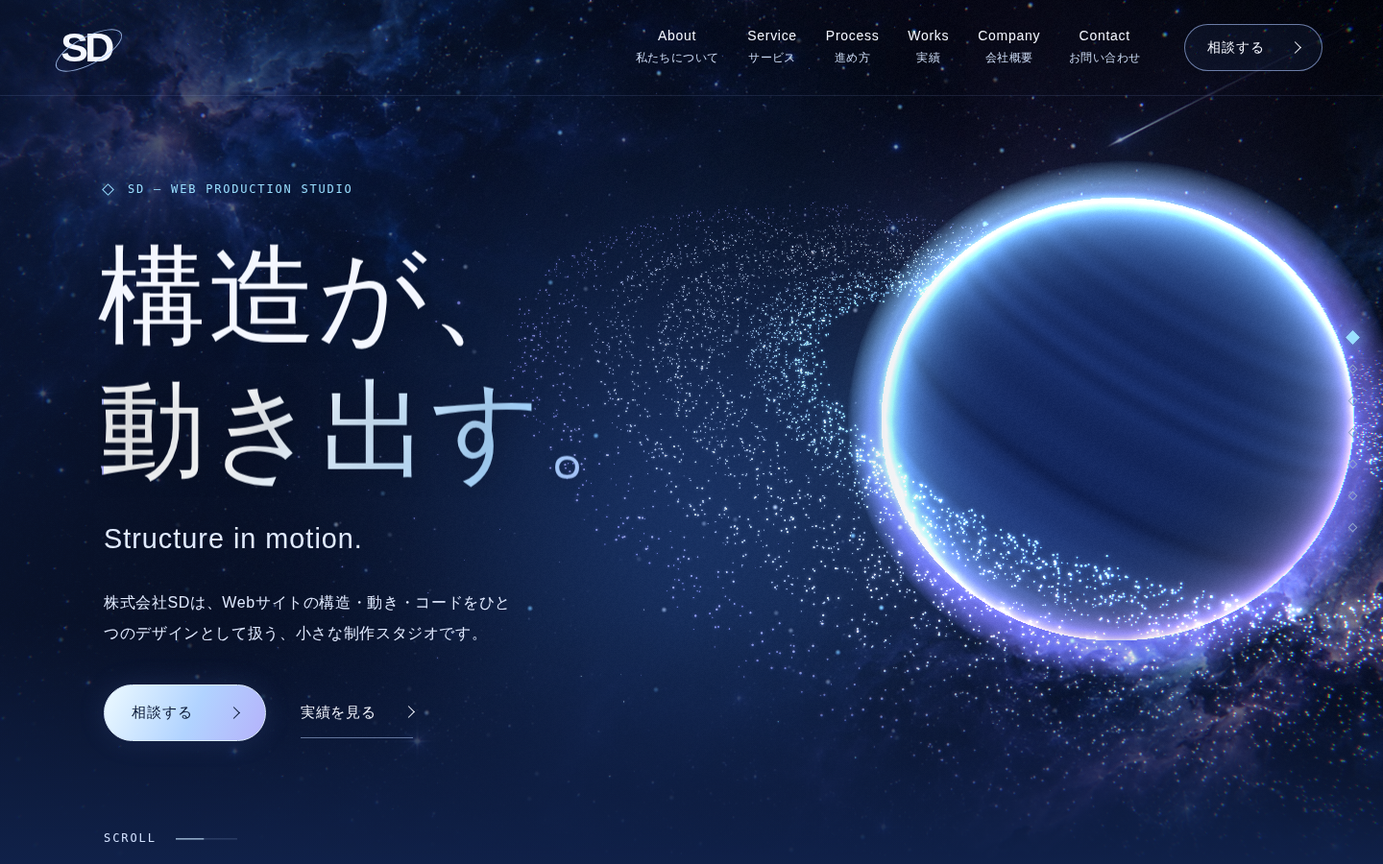
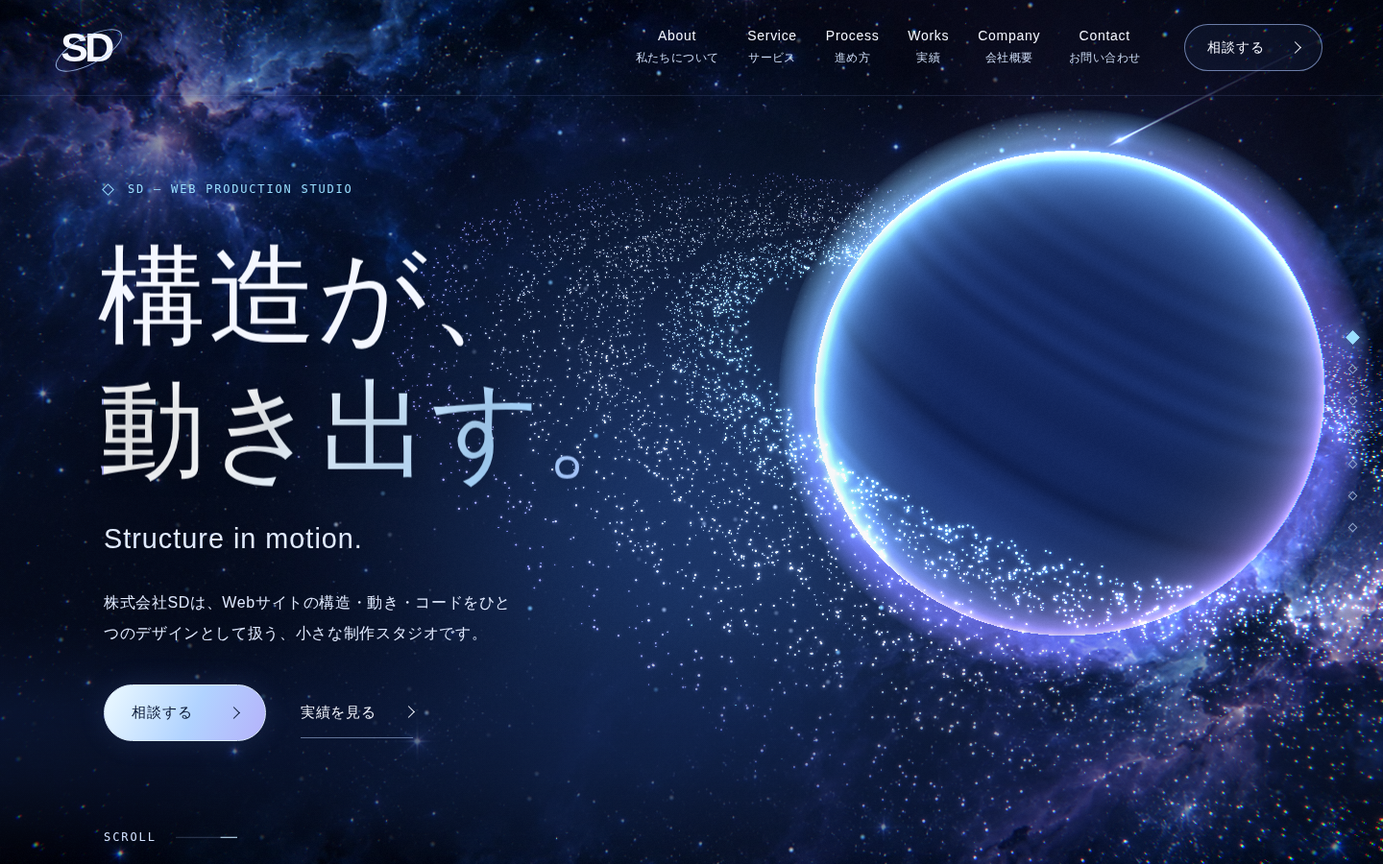
Address round-4 finish-gate findings on the cosmic-bright build
- Process grid moved clear of the lead text; mobile objects parked in
  the top margin and dimmed behind full-width text
- Hero: brighter ring (initial point size, colour ramp, fewer halo
  stars), planet rim/halo at a middle value, centre scrim removed;
  mobile hero gets a planet band above the headline
- About atom restored to visibility; section scrims fade at their
  edges (no seams); Works cast neutralised; CSS contact orbits removed
  in favour of the 3D ring; orbit light white with cyan glow
- Photo background brighter, subtler grain/vignette; thumbnails' gold
  nodes recoloured violet; review doc updated with the fix record

Claude-Session: https://claude.ai/code/session_01Fd1mfAUBwXNiZSSwWGqTG3

diff --git a/src/styles/cosmic.css b/src/styles/cosmic.css
@@ -6,7 +6,7 @@
 .menu-btn{display:none;background:transparent;width:46px;height:46px;padding:10px;position:relative}.menu-btn__bar{height:1px;background:#fff;position:absolute;left:9px;right:9px;top:18px;transition:transform .3s}.menu-btn__bar+span{top:27px}.menu-btn[aria-expanded=true] .menu-btn__bar{top:22px;transform:rotate(45deg)}.menu-btn[aria-expanded=true] .menu-btn__bar+span{transform:rotate(-45deg)}.menu{position:fixed;inset:0;background:#102149f7;backdrop-filter:blur(12px);z-index:60;padding:120px 7% 40px;overflow:auto;opacity:0;transition:opacity .35s}.menu.is-open{opacity:1}.menu__list a{display:flex;justify-content:space-between;align-items:center;padding:20px 0;border-bottom:1px solid var(--line)}.menu__jp{font-size:22px}.menu__en{font:14px var(--mono);color:var(--cyan)}.menu__foot{margin-top:36px;font-size:14px;color:var(--muted)}
 .indicator{position:fixed;right:22px;top:50%;transform:translateY(-50%);z-index:40;display:grid;gap:13px}.indicator button{background:none;width:20px;height:20px;position:relative;display:block;padding:0}.indicator button:after{content:'';position:absolute;left:7px;top:7px;width:5px;height:5px;border:1px solid #92a6cb;transform:rotate(45deg);transition:all .4s}.indicator [data-active=true] button:after{background:var(--cyan);border-color:var(--cyan);box-shadow:0 0 12px #7dd5ff;transform:rotate(45deg) scale(1.45)}.indicator span{position:absolute;right:31px;top:0;font:12px/20px var(--mono);color:var(--cyan);opacity:0;transition:opacity .2s}.indicator button:hover span{opacity:1}
 .container{width:min(1240px,85%);margin-inline:auto;position:relative;z-index:2}.section{position:relative;padding:150px 0;isolation:isolate;z-index:1}.section-num{position:absolute;right:7.5%;top:76px;font:500 180px/1 var(--latin);color:transparent;-webkit-text-stroke:1px #a4c3ff14;pointer-events:none}.label{display:flex;align-items:center;gap:16px;font:400 13px/1.6 var(--mono);letter-spacing:.15em;color:var(--cyan);margin-bottom:28px}.label:before{content:'';width:7px;height:7px;border:1px solid var(--cyan);transform:rotate(45deg);box-shadow:0 0 14px #88c6ff50}.h2{font-size:clamp(36px,3.45vw,52px);font-weight:500;line-height:1.55;letter-spacing:.04em}.line{display:block}.h3{font-size:20px;line-height:1.7;font-weight:500;letter-spacing:.025em}.lead{font-size:16px;line-height:2;color:var(--muted)}.note{font-size:13px;line-height:1.9;color:#c0cdeb}.rule{border:0;width:64px;height:1px;background:linear-gradient(90deg,var(--cyan),transparent);margin:36px 0 0}
-.section--hero{padding:0;min-height:850px;height:100svh;max-height:1180px;isolation:isolate;display:flex;align-items:center}.section--hero:before{content:'';position:absolute;inset:0;z-index:-1;background:linear-gradient(90deg,#12275640,transparent 70%),linear-gradient(0deg,var(--bg),transparent 28%)}.hero{padding:150px 0 90px;min-height:850px;display:flex;align-items:center}.hero__inner{max-width:630px;width:58%;position:relative;z-index:2}.hero__label{font-size:12px;letter-spacing:.15em;margin-bottom:30px}.hero__title{font-size:clamp(80px,7.8vw,120px);line-height:1.25;font-weight:700;letter-spacing:.025em;text-shadow:0 2px 32px #0004;margin-left:-.055em}.hero__title .line:last-child{background:linear-gradient(115deg,#fbfdff 25%,#a4d5ff 66%,#b3b2ff);-webkit-background-clip:text;background-clip:text;color:transparent}.hero__en{font:500 clamp(21px,2vw,29px)/1.4 var(--latin);letter-spacing:.035em;color:#e1ebff;margin-top:23px}.hero__lead{font-size:16px;line-height:2.05;color:#e0eaff;max-width:425px;letter-spacing:.04em;margin-top:30px}.hero__cta{display:flex;align-items:center;gap:36px;margin-top:36px}.scroll-hint{position:absolute;bottom:2px;left:0;display:flex;align-items:center;gap:20px}.scroll-hint__label{font:12px var(--mono);letter-spacing:.16em;color:#d3e2ff}.scroll-hint__line{display:block;width:64px;height:1px;background:#b9ceff40;overflow:hidden}.scroll-hint__line:after{content:'';display:block;width:32px;height:1px;background:#c9e9ff;animation:scrollhint 2.6s ease-in-out infinite}
+.section--hero{padding:0;min-height:850px;height:100svh;max-height:1180px;isolation:isolate;display:flex;align-items:center}.section--hero:before{content:'';position:absolute;inset:0;z-index:-1;-webkit-mask-image:none;mask-image:none;background:linear-gradient(90deg,#12275640,transparent 70%),linear-gradient(0deg,var(--bg),transparent 28%)}.hero{padding:150px 0 90px;min-height:850px;display:flex;align-items:center}.hero__inner{max-width:630px;width:58%;position:relative;z-index:2}.hero__label{font-size:12px;letter-spacing:.15em;margin-bottom:30px}.hero__title{font-size:clamp(80px,7.8vw,120px);line-height:1.25;font-weight:700;letter-spacing:.025em;text-shadow:0 2px 32px #0004;margin-left:-.055em}.hero__title .line:last-child{background:linear-gradient(115deg,#fbfdff 25%,#a4d5ff 66%,#b3b2ff);-webkit-background-clip:text;background-clip:text;color:transparent}.hero__en{font:500 clamp(21px,2vw,29px)/1.4 var(--latin);letter-spacing:.035em;color:#e1ebff;margin-top:23px}.hero__lead{font-size:16px;line-height:2.05;color:#e0eaff;max-width:425px;letter-spacing:.04em;margin-top:30px}.hero__cta{display:flex;align-items:center;gap:36px;margin-top:36px}.scroll-hint{position:absolute;bottom:2px;left:0;display:flex;align-items:center;gap:20px}.scroll-hint__label{font:12px var(--mono);letter-spacing:.16em;color:#d3e2ff}.scroll-hint__line{display:block;width:64px;height:1px;background:#b9ceff40;overflow:hidden}.scroll-hint__line:after{content:'';display:block;width:32px;height:1px;background:#c9e9ff;animation:scrollhint 2.6s ease-in-out infinite}
 .section--about{background:linear-gradient(var(--bg),#102149b3 40%,#10214936);padding-top:128px}.section--about .grid{display:grid;grid-template-columns:1fr 1fr;gap:10%}.about__body{padding-top:48px}.about__body>p{font-size:16px;color:#d7e3f7;line-height:2.2;letter-spacing:.025em;margin-bottom:23px}.keywords{display:flex;flex-wrap:wrap;gap:12px 24px;margin-top:32px}.keywords li{font-size:14px;color:var(--cyan);position:relative;padding-left:15px}.keywords li:before{content:'';width:4px;height:4px;border:1px solid currentColor;position:absolute;left:0;top:11px;transform:rotate(45deg)}.about__space{height:230px;width:360px;max-width:100%;margin-top:48px}
 .section--service{padding-top:135px;padding-bottom:140px;background:radial-gradient(ellipse at 10% 45%,#567fcb29,transparent 60%)}.section--service .service__inner{display:grid;grid-template-columns:.82fr 1.35fr;column-gap:10%;align-items:start}.service__inner>.label{grid-column:1;grid-row:1}.service__inner>.h2{grid-column:1;grid-row:2;align-self:start}.service__inner>.lead{grid-column:1;grid-row:3;margin-top:25px;max-width:360px}.cards{grid-column:2;grid-row:1/6;margin-top:-8px}.card{display:grid;grid-template-columns:62px 1fr;gap:22px;padding:34px 0 36px;border-top:1px solid var(--line);position:relative;transition:border-color .3s}.card:last-child{border-bottom:1px solid var(--line)}.card:after{content:'';position:absolute;right:0;top:-3px;width:5px;height:5px;transform:rotate(45deg);background:#a4bce1}.card__index{font:400 16px/58px var(--mono);color:var(--cyan);text-align:center;align-self:start;height:60px;position:relative}.card__index:after{content:'';position:absolute;inset:5px 0;border:1px solid #91acde6e;transform:rotate(-30deg);border-radius:50%}.card:nth-child(2) .card__index:after{transform:rotate(30deg);border-color:#c4a5ff8c}.card:nth-child(3) .card__index:after{transform:rotate(-15deg)}.card:nth-child(4) .card__index:after{transform:rotate(40deg);border-color:#c4a5ff8c}.card__body p{margin-top:12px;color:var(--muted);font-size:16px;line-height:2}.card:hover{border-color:#a6d6ff90}.service__cta{grid-column:1;grid-row:4;margin-top:52px;font-size:16px;color:#d8e4fa;align-self:start}.service__cta a{display:flex;width:max-content;margin-top:20px}.section--service:before{content:'';position:absolute;left:-240px;top:180px;width:630px;height:310px;border:1px solid #879fe019;border-radius:50%;transform:rotate(-36deg);pointer-events:none}
 .section--process{padding:115px 0 130px;background:linear-gradient(transparent,#20376733,transparent)}.process__inner{display:grid;grid-template-columns:1fr 1fr;column-gap:10%}.process__inner>.label{grid-column:1/-1}.process__inner>.lead{align-self:center;max-width:490px}.steps{grid-column:1/-1;display:grid;grid-template-columns:repeat(5,minmax(0,1fr));gap:32px;margin-top:72px}.step{position:relative;padding-top:50px}.step:nth-child(even){padding-top:0}.step__index{display:flex;align-items:center;justify-content:center;width:61px;height:61px;margin-bottom:32px;position:relative;z-index:2;border-radius:50%;border:1px solid #98bcea70;background:radial-gradient(circle at 35% 25%,#5578b5,#20375e 68%);font:400 16px var(--mono);color:#e7f5ff;box-shadow:0 0 38px #7886ff14}.step__index:before{content:'';position:absolute;inset:-9px;border:1px dotted #8098d950;border-radius:50%}.step__index:after{content:'';position:absolute;width:5px;height:5px;background:#c9f2ff;box-shadow:0 0 12px #7fd6ff;top:-3px;border-radius:50%}.step:not(:last-child):after{content:'';position:absolute;top:80px;left:64px;width:calc(100% + 1px);height:1px;background:linear-gradient(90deg,#a4c8ff80,#a4c8ff20);transform:rotate(-14deg);transform-origin:left}.step:nth-child(even):after{top:31px;transform:rotate(14deg)}.step__body h3{font-size:19px;margin-bottom:13px}.step__body p{font-size:16px;color:var(--muted);line-height:2}

diff --git a/src/scroll/sections.ts b/src/scroll/sections.ts
@@ -30,7 +30,7 @@ function bg(tl: gsap.core.Timeline, start: number, end: number, from: Record<str
     const o: Partial3D = {};
     if (v['--bg-x']) o.bgX = parseFloat(v['--bg-x']) / 100;
     if (v['--bg-y']) o.bgY = parseFloat(v['--bg-y']) / 100;
-    if (v['--bg-c']) o.bgWarm = v['--bg-c'].toLowerCase() === '#3a2a6e' ? 1 : 0;
+    if (v['--bg-c']) o.bgWarm = v['--bg-c'].toLowerCase() === '#2a2a66' ? 1 : 0;
     return o;
   };
   seg(tl, start, end, num(from), num(to));
@@ -68,12 +68,12 @@ export function setupSections(o: SectionsOptions): () => void {
   /* ---------- placements (object position / scale per section; hand-offs happen in the previous section's tail) ---------- */
   const W = o.shift;
   const P = {
-    hero:    W ? { gx: 3.3, gy: 0.1, gs: 2.3 } : { gx: 1.1, gy: 3.1, gs: 1.05 },
-    about:   W ? { gx: -3.1, gy: -1.5, gs: 1.0 } : { gx: 0, gy: 1.9, gs: 0.8 },
-    service: W ? { gx: -2.8, gy: -1.6, gs: 0.65 } : { gx: 0.4, gy: 3.0, gs: 0.55 },
-    process: W ? { gx: 3.7, gy: 2.1, gs: 0.7 } : { gx: 0.4, gy: 3.1, gs: 0.6 },
-    works:   W ? { gx: 3.4, gy: -2.7, gs: 0.7 } : { gx: 0.6, gy: 3.3, gs: 0.6 },
-    company: W ? { gx: -3.5, gy: -1.6, gs: 0.9 } : { gx: -0.6, gy: 3.1, gs: 0.7 },
+    hero:    W ? { gx: 2.9, gy: 0.3, gs: 2.5 } : { gx: 0.5, gy: 2.5, gs: 1.1 },
+    about:   W ? { gx: -3.0, gy: -1.4, gs: 1.0 } : { gx: 0, gy: 1.9, gs: 0.8 },
+    service: W ? { gx: -2.8, gy: -1.6, gs: 0.65 } : { gx: 0.6, gy: 3.6, gs: 0.5 },
+    process: W ? { gx: 4.6, gy: 3.4, gs: 0.6 } : { gx: 0.6, gy: 3.6, gs: 0.5 },
+    works:   W ? { gx: 3.4, gy: -2.7, gs: 0.7 } : { gx: 0.8, gy: 3.7, gs: 0.5 },
+    company: W ? { gx: -3.5, gy: -1.6, gs: 0.9 } : { gx: -0.8, gy: 3.6, gs: 0.6 },
     contact: W ? { gx: 0, gy: -0.7, gs: 1.05 } : { gx: 0, gy: 2.3, gs: 1.35 },
   };
   const HERO_CAM = { camX: 0, camY: 1.1, camZ: 9.0 };
@@ -82,10 +82,10 @@ export function setupSections(o: SectionsOptions): () => void {
   /* ---------- 1. Hero — 環つき惑星 ---------- */
   {
     const tl = sectionTimeline('hero');
-    seg(tl, 0, 0.6, { ...HERO_CAM, pointSize: 3.4 }, { camX: 0.2, camY: 1.4, camZ: 8.6, pointSize: 2.8 });
+    seg(tl, 0, 0.6, { ...HERO_CAM, pointSize: 4.0 }, { camX: 0.2, camY: 1.4, camZ: 8.6, pointSize: 3.2 });
     // hand-off: the planet body fades, the ring loosens into the atom and travels to the About corner
-    seg(tl, 0.55, 1, { heroPlanet: 1, groupX: P.hero.gx, groupY: P.hero.gy, groupScale: P.hero.gs, w0: 1, w1: 0, pointSize: 2.8 },
-      { heroPlanet: 0, groupX: P.about.gx, groupY: P.about.gy, groupScale: P.about.gs, w0: 0, w1: 1, pointSize: 1.5 });
+    seg(tl, 0.55, 1, { heroPlanet: 1, groupX: P.hero.gx, groupY: P.hero.gy, groupScale: P.hero.gs, w0: 1, w1: 0, pointSize: 3.2 },
+      { heroPlanet: 0, groupX: P.about.gx, groupY: P.about.gy, groupScale: P.about.gs, w0: 0, w1: 1, pointSize: 1.9 });
     seg(tl, 0.55, 1, { camX: 0.2, camY: 1.4, camZ: 8.6 }, { camX: 0, camY: 0.4, camZ: 8.0 });
     tl.fromTo('#hero-inner', { y: 0, opacity: 1 }, { y: -80, opacity: 0, duration: 0.6, immediateRender: false }, EPS);
     tls.push(tl);
@@ -98,7 +98,7 @@ export function setupSections(o: SectionsOptions): () => void {
     seg(tl, 0, 0.3, { idleSpeed: 0 }, { idleSpeed: 0.04 });
     bg(tl, 0, 0.4, { '--bg-x': '50%', '--bg-y': '60%' }, { '--bg-x': '62%', '--bg-y': '45%' });
     // → Service: atom → lattice, object sinks to the bottom-left corner
-    seg(tl, 0.75, 1, { w1: 1, w2: 0, groupX: P.about.gx, groupY: P.about.gy, groupScale: P.about.gs, camX: 0, camY: 0.4, pointSize: 1.5 },
+    seg(tl, 0.75, 1, { w1: 1, w2: 0, groupX: P.about.gx, groupY: P.about.gy, groupScale: P.about.gs, camX: 0, camY: 0.4, pointSize: 1.9 },
       { w1: 0, w2: 1, groupX: P.service.gx, groupY: P.service.gy, groupScale: P.service.gs, camX: 0.4, camY: 0.6, pointSize: 2.0 });
     tls.push(tl);
   }
@@ -150,7 +150,7 @@ export function setupSections(o: SectionsOptions): () => void {
     const tl = sectionTimeline('works', { start: 'top 80%' });
     seg(tl, 0, 0.25, { knotOpacity: 0, pointSize: 2.0, lineOpacity: 0.35, accentMix: 0.25, colorMix: 0.5 }, { knotOpacity: 0.55, pointSize: 1.6, lineOpacity: 0.15, accentMix: 0.6, colorMix: 1 });
     seg(tl, 0, 0.25, { camX: 1.0, camY: 1.0, camZ: 7.5, tX: 0, fov: 42, opacity: 0.6 }, { camX: 0, camY: 0.3, camZ: 7.5, tX: 0, fov: 42, opacity: 0.55 });
-    bg(tl, 0, 0.25, { '--bg-x': '50%', '--bg-y': '70%', '--bg-c': '#1a3466' }, { '--bg-x': '50%', '--bg-y': '50%', '--bg-c': '#3a2a6e' });
+    bg(tl, 0, 0.25, { '--bg-x': '50%', '--bg-y': '70%', '--bg-c': '#1a3466' }, { '--bg-x': '50%', '--bg-y': '50%', '--bg-c': '#2a2a66' });
     seg(tl, 0, 0.7, { tY: 0 }, { tY: 0.2 });
     // the solid fades while the cards are still on screen (brief §3.1: glow stays a minority)
     seg(tl, 0.55, 0.72, { knotOpacity: 0.55 }, { knotOpacity: 0 });
@@ -161,7 +161,7 @@ export function setupSections(o: SectionsOptions): () => void {
       { w4: 0, w5: 1, noise: 0.02, accentMix: 0.15, colorMix: 0.3, rotX: 0, breath: 0.012 });
     seg(tl, 0.74, 1, { camX: 0, camY: 0.3, camZ: 7.5, tX: 0, tY: 0.2, fov: 42, groupX: P.works.gx, groupY: P.works.gy, groupScale: P.works.gs, opacity: 0.55 },
       { camX: -0.6, camY: -0.4, camZ: 8.0, tX: 0, tY: 0.2, fov: 42, groupX: P.company.gx, groupY: P.company.gy, groupScale: P.company.gs, opacity: 0.9 });
-    bg(tl, 0.74, 1, { '--bg-x': '50%', '--bg-y': '50%', '--bg-c': '#3a2a6e' }, { '--bg-x': '35%', '--bg-y': '55%', '--bg-c': '#1a3466' });
+    bg(tl, 0.74, 1, { '--bg-x': '50%', '--bg-y': '50%', '--bg-c': '#2a2a66' }, { '--bg-x': '35%', '--bg-y': '55%', '--bg-c': '#1a3466' });
     seg(tl, 0.86, 1, { slabOpacity: 0 }, { slabOpacity: 0.8 });
     tls.push(tl);
   }

diff --git a/src/three/scene.ts b/src/three/scene.ts
@@ -129,7 +129,7 @@ export function createScene(canvas: HTMLCanvasElement, opts: { isMobile: boolean
       premultipliedAlpha: true,
     });
   const pointsMat = mkMaterial({}, 1);
-  const glowMat = mkMaterial({}, opts.isMobile ? 0.12 : 0.06, 3); // halo pass: 3x size (bloom adds the rest on desktop)
+  const glowMat = mkMaterial({}, opts.isMobile ? 0.09 : 0.06, 3); // halo pass: 3x size (bloom adds the rest on desktop)
   const lineMat = mkMaterial({ LINE: '' }, 1);
 
   const points = new THREE.Points(geo, pointsMat);
@@ -164,10 +164,10 @@ export function createScene(canvas: HTMLCanvasElement, opts: { isMobile: boolean
   group.add(knotMesh, slabMesh);
 
   /* Contact: a light travelling along the ring (T6 geometry: R 2.6, tilted 18°) */
-  const orbitMat = new THREE.MeshBasicMaterial({ color: new THREE.Color('#e8f6ff'), transparent: true, opacity: 0, depthWrite: false });
+  const orbitMat = new THREE.MeshBasicMaterial({ color: new THREE.Color('#ffffff'), transparent: true, opacity: 0, depthWrite: false });
   const orbitMesh = new THREE.Mesh(new THREE.SphereGeometry(0.07, 16, 12), orbitMat);
-  const orbitGlowMat = new THREE.MeshBasicMaterial({ color: new THREE.Color('#8ad8ff'), transparent: true, opacity: 0, depthWrite: false, blending: THREE.AdditiveBlending });
-  const orbitGlow = new THREE.Mesh(new THREE.SphereGeometry(0.16, 16, 12), orbitGlowMat);
+  const orbitGlowMat = new THREE.MeshBasicMaterial({ color: new THREE.Color('#9adfff'), transparent: true, opacity: 0, depthWrite: false, blending: THREE.AdditiveBlending });
+  const orbitGlow = new THREE.Mesh(new THREE.SphereGeometry(0.22, 16, 12), orbitGlowMat);
   orbitMesh.add(orbitGlow);
   orbitMesh.visible = false;
   group.add(orbitMesh);
@@ -236,7 +236,7 @@ export function createScene(canvas: HTMLCanvasElement, opts: { isMobile: boolean
     uniforms.uNoiseAmp.value = S.noise;
     uniforms.uPointSize.value = S.pointSize;
     uniforms.uBreath.value = S.breath;
-    const mob = opts.isMobile ? 0.45 + 0.55 * Math.min(1, w[0] + w[6]) : 1;
+    const mob = opts.isMobile ? 0.3 + 0.7 * Math.min(1, w[0] + w[6]) : 1;
     uniforms.uOpacity.value = S.opacity * mob;
     uniforms.uAccentMix.value = S.accentMix;
     uniforms.uLineOpacity.value = S.lineOpacity;
@@ -257,7 +257,7 @@ export function createScene(canvas: HTMLCanvasElement, opts: { isMobile: boolean
     planetGroup.visible = S.heroPlanet > 0.002;
     planetMat.uniforms.uOpacity.value = S.heroPlanet;
     planetMat.uniforms.uTime.value = time;
-    haloMat.uniforms.uOpacity.value = 0.55 * S.heroPlanet;
+    haloMat.uniforms.uOpacity.value = 0.48 * S.heroPlanet;
     planetMesh.rotation.y = time * 0.06;
     // ring: spin about its own axis, then the shared tilt
     spinM4.makeRotationY(time * 0.03);
@@ -265,8 +265,8 @@ export function createScene(canvas: HTMLCanvasElement, opts: { isMobile: boolean
     (uniforms.uSaturnRot.value as THREE.Matrix3).setFromMatrix4(satM4);
     // orbiting light: ring param → tilt 18° about X (matches the T6 target)
     orbitMesh.visible = S.orbitOpacity > 0.002;
-    orbitMat.opacity = S.orbitOpacity * (opts.isMobile ? 0.5 : 0.8);
-    orbitGlowMat.opacity = S.orbitOpacity * (opts.isMobile ? 0.10 : 0.12);
+    orbitMat.opacity = S.orbitOpacity * (opts.isMobile ? 0.7 : 1.0);
+    orbitGlowMat.opacity = S.orbitOpacity * (opts.isMobile ? 0.18 : 0.28);
     {
       const a = time * 0.45, R = 2.6, tilt = (18 * Math.PI) / 180;
       const x = R * Math.cos(a), z = R * Math.sin(a);

diff --git a/index.html b/index.html
@@ -95,7 +95,7 @@
 
     <main id="main" class="main" tabindex="-1">
       <!-- 01 HERO -->
-      <section class="section section--hero scrim-c" id="hero" data-section="hero">
+      <section class="section section--hero" id="hero" data-section="hero">
         <div class="container hero">
           <div class="hero__inner" id="hero-inner">
             <p class="label hero__label" data-reveal="block">SD — WEB PRODUCTION STUDIO</p>
@@ -288,7 +288,7 @@
                 <svg viewBox="0 0 320 200" fill="none" stroke="#F2F4F7" stroke-width="1" stroke-opacity="0.35">
                   <path d="M92 100c0-40 40-56 68-30s40 60 68 30 0-70-34-56-34 70-68 56S92 140 92 100z"/>
                   <path d="M104 100c0-30 32-44 56-22s34 50 56 24 4-58-26-48-30 60-56 48-30 22-30-2z" stroke="#8AD8FF" stroke-opacity="0.6"/>
-                  <g fill="#F0C674" stroke="none"><rect x="158" y="72" width="4" height="4"/><rect x="158" y="124" width="4" height="4"/></g>
+                  <g fill="#ae9bff" stroke="none"><rect x="158" y="72" width="4" height="4"/><rect x="158" y="124" width="4" height="4"/></g>
                 </svg>
                 <span class="work__tag">SAMPLE 02 — 結び目</span>
               </div>
@@ -302,7 +302,7 @@
                   <ellipse cx="160" cy="104" rx="88" ry="30" stroke="#8AD8FF" stroke-opacity="0.6"/>
                   <ellipse cx="160" cy="104" rx="60" ry="20" stroke="#F2F4F7" stroke-opacity="0.25"/>
                   <g fill="#8AD8FF" fill-opacity="0.8"><circle cx="72" cy="104" r="1.5"/><circle cx="248" cy="104" r="1.5"/><circle cx="160" cy="74" r="1.5"/><circle cx="160" cy="134" r="1.5"/><circle cx="110" cy="80" r="1"/><circle cx="210" cy="128" r="1"/></g>
-                  <rect x="158" y="102" width="4" height="4" fill="#F0C674"/>
+                  <rect x="158" y="102" width="4" height="4" fill="#ae9bff"/>
                 </svg>
                 <span class="work__tag">SAMPLE 03 — 輪</span>
               </div>
@@ -339,7 +339,6 @@
       <!-- 07 CONTACT -->
       <section class="section section--contact scrim-c" id="contact" data-section="contact">
         <span class="section-num" aria-hidden="true">06</span>
-        <div class="contact-orbits" aria-hidden="true"><i></i><i></i><i></i></div>
         <div class="container contact">
           <p class="label" data-reveal="block">06 — CONTACT</p>
           <h2 class="h2 h2--center" data-reveal="lines">

diff --git a/src/styles/three.css b/src/styles/three.css
@@ -4,12 +4,11 @@ html[data-webgl="0"] .scene{display:none}
 .main,.footer{position:relative;z-index:1}
 .header{z-index:70}
 /* text scrims over the 3D (per section) */
-.section::before{content:"";position:absolute;inset:0;z-index:-1;pointer-events:none}
+.section::before{content:"";position:absolute;inset:0;z-index:-1;pointer-events:none;-webkit-mask-image:linear-gradient(180deg,transparent 0,#000 160px,#000 calc(100% - 160px),transparent 100%);mask-image:linear-gradient(180deg,transparent 0,#000 160px,#000 calc(100% - 160px),transparent 100%)}
 .scrim-l::before{background:linear-gradient(90deg,rgba(16,33,73,.72) 0%,rgba(16,33,73,.45) 45%,transparent 75%)}
 .scrim-r::before{background:linear-gradient(270deg,rgba(16,33,73,.72) 0%,rgba(16,33,73,.45) 45%,transparent 75%)}
 .scrim-c::before{background:radial-gradient(64% 56% at 50% 50%,rgba(16,33,73,.8) 0%,rgba(16,33,73,.45) 60%,transparent 100%)}
-.section--hero::before{background:linear-gradient(90deg,rgba(16,33,73,.55) 0%,rgba(16,33,73,.25) 45%,transparent 70%),linear-gradient(0deg,var(--bg),transparent 28%)}
-@media(max-width:767px){.scrim-l::before,.scrim-r::before{background:linear-gradient(180deg,transparent 0%,rgba(16,33,73,.6) 30%,rgba(16,33,73,.8) 100%)}.section--hero::before{background:linear-gradient(180deg,rgba(16,33,73,.15) 0%,transparent 24%,rgba(16,33,73,.55) 55%,var(--bg) 93%)}}
+@media(max-width:767px){.scrim-l::before,.scrim-r::before{background:linear-gradient(180deg,transparent 0%,rgba(16,33,73,.6) 30%,rgba(16,33,73,.8) 100%)}.hero{padding-top:290px!important}}
 /* line + char reveals */
 .line{display:block;overflow:hidden}.line>span{display:block}
 .hero__title .char{display:inline-block;overflow:hidden;vertical-align:top}.hero__title .char>span{display:inline-block;will-change:transform}

diff --git a/src/three/shaders.ts b/src/three/shaders.ts
@@ -107,7 +107,7 @@ void main() {
   // galaxy ramp (only while the T0 target dominates): warm core → cyan arms → violet rim
   vec3 gcol = mix(uGalCore, uGalArm, smoothstep(0.0, 0.45, aGal));
   gcol = mix(gcol, uGalRim, smoothstep(0.6, 1.0, aGal));
-  gcol *= 1.0 + 0.35 * (1.0 - smoothstep(0.0, 0.3, aGal));
+  gcol *= 1.25 + 0.35 * (1.0 - smoothstep(0.0, 0.3, aGal));
   col = mix(col, gcol, uW[0]);
   vColor = col;
 
@@ -115,7 +115,7 @@ void main() {
   float fog = exp(-uFog * uFog * d * d);
   vAlpha = uOpacity * fog * (0.55 + 0.45 * aSeed);
   // the atom's thin orbits need extra brightness on the lighter background
-  vAlpha *= 1.0 + 0.35 * uW[1];
+  vAlpha *= 1.0 + 0.7 * uW[1];
 
   #ifdef LINE
     vAlpha *= 0.9;
@@ -211,7 +211,7 @@ void main() {
   vec3 body = mix(uBase, uBand, bands * 0.5) * (0.35 + 0.75 * lit);
   float f = pow(1.0 - max(dot(n, v), 0.0), 2.4);
   vec3 rim = mix(uRimDark, uRimLit, smoothstep(-0.2, 0.7, ndl));
-  vec3 c = body + rim * f * 1.6;
+  vec3 c = body + rim * f * 1.4;
   gl_FragColor = vec4(c * uOpacity, uOpacity);
 }
 `;

diff --git a/src/three/background.ts b/src/three/background.ts
@@ -85,7 +85,7 @@ void main() {
 
   // vignette
   float v = smoothstep(1.25, 0.3, length((uv - 0.5) * vec2(aspect, 1.0) * 1.15));
-  col *= mix(0.6, 1.0, v);
+  col *= mix(0.72, 1.0, v);
 
   gl_FragColor = vec4(col, 1.0);
 }
@@ -103,7 +103,7 @@ export function createBackground(): { mesh: THREE.Mesh; uniforms: Record<string,
     uStars: { value: 1 },
     uPhoto: { value: null },
     uPhotoMix: { value: 0 },
-    uPhotoDim: { value: 0.78 },
+    uPhotoDim: { value: 0.92 },
     uPhotoOffset: { value: new THREE.Vector2(0, 0) },
   };
   const mat = new THREE.ShaderMaterial({ vertexShader: VERT, fragmentShader: FRAG, uniforms, depthWrite: false, depthTest: false });

diff --git a/src/three/targets.ts b/src/three/targets.ts
@@ -63,8 +63,8 @@ export function buildTargets(opts: TargetOptions): TargetSet {
     const gauss = () => { const u1 = Math.max(rand(), 1e-6), u2 = rand(); return Math.sqrt(-2 * Math.log(u1)) * Math.cos(2 * Math.PI * u2); };
     for (let i = 0; i < n; i++) {
       let x: number, y: number, z: number;
-      if (i % 12 === 0) {
-        // 8%: halo stars far from the planet
+      if (i % 20 === 0) {
+        // 5%: halo stars far from the planet
         const zz = rand() * 2 - 1, a2 = rand() * Math.PI * 2, sxy = Math.sqrt(1 - zz * zz);
         const r = 3.2 + rand() * 4.5;
         x = sxy * Math.cos(a2) * r; y = zz * r * 0.7; z = sxy * Math.sin(a2) * r;

diff --git a/src/three/post.ts b/src/three/post.ts
@@ -9,8 +9,8 @@ const GradeShader = {
   uniforms: {
     tDiffuse: { value: null },
     uTime: { value: 0 },
-    uGrain: { value: 0.03 },
-    uVignette: { value: 0.14 },
+    uGrain: { value: 0.02 },
+    uVignette: { value: 0.10 },
     uCA: { value: 0.0009 },
   },
   vertexShader: /* glsl */ `

diff --git a/docs/ui-review.md b/docs/ui-review.md
@@ -262,3 +262,117 @@ Minor（#8〜#13）は余力で。#8（grain）と #9（二重ビネット）は
 | M-5 環つき惑星が brief §3.5-4 に抵触 | クライアント要望として brief v1.2 で「点と線による惑星・銀河」を許容範囲に追加 |
 | M-6 モバイルのヒーローラベルが銀河の核に重なる | ヒーロー中の `groupY` を 1.7 に |
 | 副次 | グレイン 0.03、グレードのビネット 0.14（二重ビネットを緩和）、進捗バーをヘッダー外の固定要素に移動、タイポトークンを brief v1.2 に反映 |
+
+---
+
+## 再審査（第4回・SD-cosmic-bright 3D 版）
+
+**レビュー**: UI Finish-Gate Reviewer（2026-09-24）
+**対象ビルド**: `7af78fe Adopt the SD-cosmic-bright design and rebuild its visuals in 3D`（`index.html` / `src/styles/cosmic.css` + `three.css` / `src/scroll/sections.ts` 配置表 `P` / `src/three/*.ts`）
+**設計の正**: クライアント支給の 2D デザイン `docs/reference/cosmic-bright-hero.png`（d-00）, `cosmic-bright-about.png`（d-01）, `cosmic-bright.css`。比較には scratchpad の支給フルセット `ref/d-02..d-07`（Service / Process / Works / Company / Contact / Footer）と `ref/m-00..m-06`（モバイル）も用いた。契約: `docs/brand-brief.md` §3.1 v1.3、3D 仕様 `docs/cosmic-bright-3d.md`（確定値）。
+**証拠**: `scratchpad/shots/1440x900-00.png`（Hero）, `-about-body / -service-cards / -process-steps / -works-cards / -company-table / -contact-h2 / -contact-cta.png`, `-01.png`（Contact→Footer）; `scratchpad/shots-m/390x844-00.png` と同名の targeted 7 枚 + `-01.png`（Footer）。拡大確認用に `scratchpad/crop-*.png` を作成。
+**注記**:
+- 書体はサンドボックスのフォールバックのため判定対象外。swiftshader は実 GPU より bloom がやや強いので、発光の数値は「上限側」として読む。
+- 測定は第2〜3回と同じ純 Python PNG デコード + WCAG 相対輝度（`scratchpad/measure4.py`）。「テキスト直下」は行間の帯の背景輝度 p90 と、その帯に対する文字色の合成コントラスト。本文 `#f4f7ff` が 4.5:1 を保てる背景は L ≤ 0.168、補足 `#d3def3` は L ≤ 0.122。3D 仕様 §6.2 の受け入れ上限 `#24376e` は L = 0.042。
+- 支給 CSS と移植 CSS を整形して diff した（`scratchpad/ref-pretty.css` vs `build-pretty.css`）。差分は「写真ヒーロー `.hero__art` と CSS 装飾 `.brand-orbit` の削除、`.about__space` プレースホルダ、3D 用の `isolation` / `z-index`、ホバーの transform 撤去（第3回 M-1 の踏襲）、blur 値の軽量化」のみ。**2D レイアウト・型・パレット・罫線・装飾（◇ 節点、楕円ワードマーク、`.section--service:before` / `.section--company:after` / `.contact-orbits`）は支給 CSS と同一**である。
+
+### 1. 判定
+
+### HOLD
+
+理由: 2D の移植は正確で、全セクションの DOM・レイアウト・型スケール・パレットが支給デザインと一致している（§2 の表）。止めるのは 3D 側である。(1) **Process のリード文が、上段右に駐車された設計図オブジェクトの帯の上に載り、行間の背景 p90 = 0.226、補足色との合成 2.8:1**（`1440x900-process-steps.png` x 1050–1250 / y 139–147、`crop-process-band.png`）。本文 4.5:1 の必須要件に対する唯一の違反だが、明確な違反である。(2) 3D で作り直したはずのヒーローの「環」が、環として読めない。参照 d-00 では惑星の前を横切る明るい帯が画面の第一要素だが、ビルドでは惑星は白飛びした縁（L p90 = 1.0）の暗い球、環は左半分に散った塵に見える（`crop-hero-ring.png`）。(3) About の「SD を囲む 3 本の軌道」というブランド装置が、原子ターゲットの点群では実質見えない（原子領域 p90 0.021、背景 0.017）。(4) セクション境界ごとにスクリムが硬く切れ、写真の明るさが段になって横線が走る（Works→Company で 2.5 倍）。(5) モバイルでは惑星の縁と環の粒がヘッダーの `相談する` とメニューの真後ろにある。以上 1 件の Critical と 7 件の Major が観測可能に直るまで出荷しない。移植した 2D と、Service の格子・Company の石板（デスクトップ）・Contact の可読性は手つかずで残すこと。
+
+### 2. 忠実度テーブル（参照 vs ビルド）
+
+判定: **一致** = レイアウト・型・パレット・装飾が参照と同じ／**差異あり** = 目視または実測で参照から外れる点がある（3D による「追加」は差異として記録し、良否は §3 で判定）。
+
+| セクション | 参照 | ビルド | 2D（レイアウト／型／パレット／装飾） | 3D 追加分と差異 |
+|---|---|---|---|---|
+| Header / Nav | d-00 | `1440x900-00.png` | **一致**: 楕円付きワードマーク、EN+JP 2 段ナビ、`相談する` アウトライン、下罫線 | — |
+| Hero | d-00 | `1440x900-00.png` | **一致**: ラベル ◇、2 行見出し（2 行目グラデ）、EN、リード、`btn--signal` + 矢印リンク、SCROLL ヒント。位置は参照と ±8px | **差異あり**: 参照の惑星（中心 ≈ (1060,400)、半径 ≈ 300、環が手前を横切る）に対し、ビルドは中心 ≈ (1160,430)、半径 ≈ 245、縁が白飛び（x 1100–1250 / y 195–225 の p90 = 1.0）。環は帯ではなく塵の帯状散布（`crop-hero-ring.png`）。`P.hero` = {3.3, 0.1, 2.3} は仕様 §1.1 の {2.6, 0.35, 2.8} と異なり、帯半径も §2.1（1.30–2.35 + halo ≤ 4.2）ではなく [1.32–2.70] + halo r 3.2–7.7（`targets.ts` L61–66）。halo が左半分（x 600–900 / y 250–400）に散る。参照の左上銀河・右上の月は写真由来のため消失（仕様どおり）。テキスト帯は良好: ラベル上 9.0:1、リード行間 15.5:1、見出し右の環 p90 0.029 |
+| About | d-01 | `1440x900-about-body.png` | **一致**: 左 ラベル/h2/罫線、右 本文 3 段落 + キーワード（◇）、`01` 番号 | **差異あり**: 参照の `.brand-orbit`（3 楕円 + 「SD」+ 右上ノード）は削除され、3D 原子に置換。だが原子領域（x 280–560 / y 470–780）の p90 = 0.021 に対し背景 0.017 で、**霧のような球にしか見えない**（`crop-about-atom.png`）。3 本の楕円は判別できず、仕様 §3.4 の `nodeMesh` は未実装（`grep nodeMesh` 0 件、`state.ts` に `nodeOpacity` なし）。位置も `.about__space`（中心 ≈ (290,660)）より約 130px 右。本文行間 14.9:1 |
+| Service | d-02 | `1440x900-service-cards.png` | **一致**: `.82fr/1.35fr` の 2 カラム、丸囲み番号 + 傾いた楕円、罫線と右端 ◇、左上の大楕円、CTA | **差異あり（良）**: 格子が CTA の下・左下の空き（x 170–460 / y 520–860）に置かれ、テキストと交差しない。カード行間 10.7:1、リード 11.5:1。画面全体の平均輝度は参照 0.032 に対し 0.027 |
+| Process | d-03 | `1440x900-process-steps.png` | **一致**: 見出し左・リード右、5 ノードのジグザグ・タイムライン（球体番号、点線リング、斜線） | **差異あり（不可）**: 設計図オブジェクト（`P.process` {3.7, 2.1, 0.7}, opacity 0.5）が上段右 (1050–1440, 95–185) に横帯として駐車し、**リード 1 行目右 1/3（「各段階で成果物を共有」）に重なる**。行間 p90 0.226 → 2.8:1（`crop-process-band.png`）。下端 y ≈ 735 に硬いスクリム段差（左半分 L 0.0114 → 0.0060） |
+| Works | d-04 | `1440x900-works-cards.png` | **一致**: 3 列サムネ（クリップ角、星野、SVG 線画、タグ）、CORPORATE/SERVICE/BRAND、h3、説明 | **差異あり**: `bg(...'--bg-c':'#3a2a6e')` により **セクション全体が紫寄り**（背景パッチ (100–900, 690–770) rgb (15,14,38) vs 参照 (15,27,56)、画面平均 rgb (21,26,57) vs (22,36,75)）。仕様 §6.1 は `#2a2a66`。結び目が右下 (1150–1440, 680–900) にセクション境界をまたいで覗く。SVG の `#F0C674` ノードは参照にもあるので忠実だが brief v1.3「金の全廃」と矛盾（Minor）。カード行間 8.5:1、注記 7.9:1 |
+| Company | d-05 | `1440x900-company-table.png` | **一致**: 左 ラベル/h2、右テーブル（th 110px、罫線）、左下の細い楕円 | **差異あり**: 石板の点群が左下 (380–600, 590–900) で th 列（x 615–）の直前まで来るが交差はしない（th 帯 6.9:1）。上端 y ≈ 125 と下端 y ≈ 800 に硬い段差（右半分 L 0.0038 → 0.0097 = 2.5 倍、`crop-seam-company.png`）。セクション平均輝度は参照 0.029 に対し 0.018（−39%）で、参照より明らかに暗い |
+| Contact | d-06 / d-07 | `1440x900-contact-h2.png`, `-contact-cta.png` | **一致**: 中央揃えのラベル/h2/リード/`btn--lg`/メール/注記、`.contact-orbits` 3 楕円と小さな点、`06` 番号 | **差異あり**: CSS の 3 楕円を残したまま 3D の輪（+ 周回光）を重ねたため、**1 画面に 2 系統・5 本の軌道**が出る（仕様 §5 は CSS 側の削除を推奨）。周回光は白い光ではなく **平坦な灰色の円盤**（(352–370, 602–620) L 0.38–0.49、rgb (149,162,189)、グローなし、`crop-contact-disc.png`）。輪の bloom ホットスポット (1030–1070, 670–710) p90 0.31 が CTA の右下で競合。可読性は合格: リード行間 9.7:1、メール下 7.7:1、注記下 7.7:1、リード上帯 p90 0.045（仕様上限 0.042 をわずかに超過） |
+| Footer | d-07 | `1440x900-01.png` | **一致**: 左 ワードマーク/社名/メール、右ナビ、meta 行、巨大 `SD` ストローク | **差異あり（軽微）**: 輪の尾が (380–1090, 540–900) でフッター内まで続き、灰色円盤 (990,725) が残る。ナビ帯は 14:1 で可読 |
+| モバイル Hero | m-00 | `390x844-00.png` | **一致**: ラベル/見出し/EN/リード/CTA/SCROLL の順と余白、ヘッダー 76px | **差異あり（不可）**: `P.hero`（mobile）{1.1, 3.1, 1.05} で惑星が右上のヘッダー裏に入り（仕様 §1.4 は {0.3, 2.0, 1.5}、上端 ≈ 94px）、**環の粒の流れと白飛びした縁が `相談する` ボタンとメニュー (336–370, 26–50, max L 1.0) の真後ろ**（`crop-m-hero.png`）。ボタン左パッド (196–210, 24–52) p90 0.098 / max 0.60（参照 m-00 は 0.030 / 0.41）。一方、参照 m-00 が抱えていたラベル帯の問題（p90 0.288, 2.1:1）はビルドでは解消（12.7:1） |
+| モバイル About | m-01 | `390x844-about-body.png` | **一致** | **差異あり（軽微）**: 参照は原子がテキストの上に流れるが、ビルドは固定キャンバスの原子が本文 1〜2 段落の裏に残る。ただし薄く、行間 14.4–14.7:1、max 0.06 |
+| モバイル Service | m-02 | `390x844-service-cards.png` | **一致** | **差異あり**: 格子がカード 01 本文 (92–355, 10–120) の裏に重なる。行間 p90 0.029–0.040（8.6–9.9:1）で基準は満たすが、max 0.60 の点が字画の上に乗る。モバイル用スクリムは縦グラデで上 30% がほぼ透明のため、駐車位置（`gy` 3.0 = 画面上部）と噛み合っていない |
+| モバイル Process | m-03 | `390x844-process-steps.png` | **一致** | 差異なし（上端 20px に点の帯のみ） |
+| モバイル Works | m-04 | `390x844-works-cards.png` | **一致** | **差異あり**: 結び目がカード 01 の CORPORATE / h3 (200–390, 30–130) の裏。帯は 11–15:1 で可読、紫の色被り (33,33,74) vs 参照 (23,36,73) |
+| モバイル Company | m-05 | `390x844-company-table.png` | **一致** | **差異あり**: 石板の白い点柱 (80–180, 0–190) が `05 — COMPANY` と `会社概要` の真後ろ（`crop-m-company.png`）。帯は 10.8–14.4:1 で可読だが、参照の静かな見出しが「柱の裏の文字」になる。y ≈ 715 に全幅の段差（L 0.0156 → 0.0114） |
+| モバイル Contact / Footer | m-06 | `390x844-contact-h2.png`, `-contact-cta.png`, `-01.png` | **一致** | 差異なし。輪はラベルの上 (y 255–300) を真横から帯として通り、ラベル上 9.4:1、リード行間 10.3:1。フッターは m-06 と同じ |
+
+**全体の明度**: 参照の各画面の平均輝度は 0.029–0.032（Hero 0.057）で揃っているのに対し、ビルドは About 0.025 / Service 0.027 / Process 0.024 / Works 0.021 / Company 0.018 / Footer 0.030（Hero は bloom で 0.066）。`uPhotoDim 0.78` + 背景ビネット（隅 ×0.6）+ グレードのビネット 0.14 + セクション別スクリムの四重で、「bright」の名を持つ支給デザインより 15–40% 暗い。
+
+### 3. 所見（重大度順）
+
+凡例: **C** = Critical（出荷停止）, **M** = Major（PASS 前に必須）, **m** = Minor（推奨。PASS は阻まない）
+
+| # | 重大度 | 画面 / 証拠 | 何が起きているか | 観測可能な変更 | 検証条件 |
+|---|---|---|---|---|---|
+| 1 | **C** | Process（デスクトップ）<br>`1440x900-process-steps.png`, `crop-process-band.png` | Service→Process のハンドオフで設計図が `P.process` {gx 3.7, gy 2.1} に駐車され、opacity 0.5 のまま画面上部右 (1050–1440, 95–185) に横帯として残る。リード（`--muted`）1 行目の右 1/3 がその上。行間 x 1050–1250 / y 139–147 の p90 = 0.226 → **2.8:1**（上帯 p90 0.085 / max 0.66）。本文 4.5:1 の必須要件違反 | `sections.ts` `P.process`（W）を **{gx 4.6, gy 3.4, gs 0.6}** にしてリード列（x ≤ 1250 / y ≤ 180）の外へ出す（見かけ中心を x ≥ 1330 / y ≤ 80 に）か、Process 到達時に `opacity` 0.5 → **0.2** まで落として local 0.32 の grid→knot 変形から戻す。合わせて `.section--process` の `.lead` に `max-width: 420px` を付け、右端を x ≈ 1200 で止める | 1440×900 の Process 見出し中央フレームで、リードの行ボックス (780–1250, 112–170) と交差する 3D 画素が L > 0.12 を含まず、行間 x 1050–1250 の p90 ≤ 0.042（仕様 §6.2）。合成 ≥ 6:1 |
+| 2 | **M** | Hero（デスクトップ）<br>`1440x900-00.png`, `crop-hero-ring.png` vs `cosmic-bright-hero.png` | 参照の第一要素「惑星の前を横切る明るい環」が成立していない。(a) 環: `targets.ts` の帯 [1.32–1.68][1.74–2.10][2.16–2.36][2.42–2.70] はギャップが広く、リングレット暗線なし、halo が `i % 12`（8%）で r 3.2–7.7（仕様 2.7–4.2）まで飛ぶため、環の外に塵が散り左半分 (600–900, 250–400) まで達する。手前の弧だけが惑星の下で読め、奥の弧は消えるので「彗星の尾」に見える。(b) 惑星: 縁の bloom が飽和（x 1100–1250 / y 195–225 の p90 = **1.0**、mean 0.61）、本体は暗い一色で参照の縞と光側/影側の差がない。(c) 配置: `P.hero` {3.3, 0.1, 2.3} → 中心 ≈ (1160,430)、半径 ≈ 245px。仕様 §1.1 は {2.6, 0.35, 2.8} → (1058,405) / 273px。参照 d-00 では (1060,400) / ≈300px | `targets.ts` T0 を仕様 §2.1–2.2 に置換（帯 1.30–1.55 / 1.62–1.92 / 1.98–2.15 / 2.20–2.35、`i % 50` 割当、リングレット暗線、halo 2.7–4.2 で 8%）。`P.hero`（W）を **{2.6, 0.35, 2.8}**。縁の飽和は `haloMat uOpacity` 0.55 → **0.35** と bloom `threshold` 0.82 → **0.88**（または惑星のみ bloom 対象外）。影側の環を §2.3 の円柱影で落とす | 1440×900 Hero local 0 で: 惑星中心 (1058±30, 405±30)、半径 273±20px。環が **連続した楕円**として読め、手前の弧が惑星の下半分を横切り、奥の弧は惑星に隠れる（`d-00` と並べて確認）。x < 700 の領域の 3D 点密度が参照の星密度を超えない（6×4 ブロックで L > 0.3 の画素率 ≤ 0.3%）。縁の帯 p90 ≤ 0.85。テキスト帯は現状維持（ラベル上 ≥ 8:1、リード行間 ≥ 12:1） |
+| 3 | **M** | About（デスクトップ）<br>`1440x900-about-body.png`, `crop-about-atom.png` vs `cosmic-bright-about.png` | 参照のブランド装置（3 楕円 + 「SD」+ 右上の光る点）を削除して 3D 原子に置換したが、原子は**背景と区別がつかない**（領域 p90 0.021 vs 背景 0.017、max 0.154）。楕円 3 本は判別できず、仕様 §3.4 の `nodeMesh` は未実装、§3.2 の役割別 alpha（軌道 0.6 / 核 1.0 / ノード 1.6・×1.8）もない（`aRole` なし）。位置は `.about__space` の中心 (290,660) から約 130px 右。結果として About は「見出しの下が空」になり、参照の「SD が中心にあり周りを 3 本の手が回る」意味が消えた | `targets.ts` T1 と `shaders.ts` を仕様 §3.1–3.2 に（黄金比 t、`aRole`、ノード 114 点・純白・×1.8、軌道 alpha 0.6 は「線」として細く濃く）。`nodeMesh` + `S.nodeOpacity`（§3.4、§4.2）。`P.about`（W）を **{-2.8, -1.35, 0.8}**。About 到達時 `pointSize` 1.5 → **2.0**。「SD」文字は仕様どおり核クラスタで代替可だが、クライアント確認を推奨 | About local 0.4（見出し上 1/3）のフレームで、`.about__space` (108–468, 478–708) の中に 3 本の楕円が個別に判別でき、右上にノードの光点（L ≥ 0.8、直径 ≥ 10px）がある。原子領域の p90 ≥ 0.06（背景の 3 倍以上）。本文行間は ≥ 12:1 を維持 |
+| 4 | **M** | 全セクション境界（両サイズ）<br>`1440x900-process-steps.png` y 735, `-works-cards.png` y 790, `-company-table.png` y 125 / 800, `-contact-h2.png` y 200, `crop-seam-company.png`; `390x844-company-table.png` y 715 | `three.css` の `.section::before` スクリム（`scrim-l / -r / -c`）は横グラデで縦方向のフェードがなく、`isolation: isolate` のセクション境界で**硬く切れる**。写真背景が連続しているぶん段差が横線として見える: Works→Company 右半分 L 0.0038 → 0.0097（2.5 倍）、Process→Works 左半分 0.0114 → 0.0060、モバイル Company→Contact 全幅 0.0156 → 0.0114。参照にはこの線がない（支給 CSS のセクション背景はすべて縦にフェードする） | `scrim-*::before` に **縦のマスク**を足す: `mask-image: linear-gradient(180deg, transparent 0, #000 160px, #000 calc(100% - 160px), transparent 100%)`（`-webkit-mask-image` も）。または横グラデを `background` の 1 層目、`linear-gradient(180deg, var(--bg) 0, transparent 160px)` を 2 層目に重ねて上端を溶かす。Works にもスクリムがないので `scrim-l` を付け、Company と同じ規則にする | 各境界（Hero/About, About/Service, Service/Process, Process/Works, Works/Company, Company/Contact, Contact/Footer）で、境界の上下 8px の帯（x 0–600 と x 700–1440、モバイルは全幅）の平均 L の差が **15% 以内**。目視で横線が消えている |
+| 5 | **M** | モバイル Hero<br>`390x844-00.png`, `crop-m-hero.png` vs `m-00.png` | `P.hero`（mobile）{1.1, 3.1, 1.05} で惑星の中心がヘッダー内 (≈ 330, 90) にあり、環の粒の流れが `相談する`（195–310, 15–60）を左から右へ横切り、白飛びした縁がメニュー (336–370, 26–50) の背後（max L 1.0）。アウトラインボタン（枠 `#abc5ff99`、面 `#263c7329`）は粒に溶けて輪郭が読めない。ボタン左パッド p90 0.098 / max 0.60（参照 0.030 / 0.41）。仕様 §1.4 は {0.3, 2.0, 1.5}: 中心 上から 25%（≈ 212px）、上端 ≈ 94px でヘッダー 76px と重ならない | `P.hero`（mobile）を **{0.3, 2.0, 1.5}** に。加えて `@media (max-width:767px)` で `.header:not(.is-scrolled)` に `background: linear-gradient(180deg, rgba(16,33,73,.85), rgba(16,33,73,0))` を与え、初期状態でもヘッダー帯が 3D から分離されるようにする | 390×844 Hero local 0 で、惑星の上端 y ≥ 90px、ヘッダー領域 (0–390, 0–76) に L > 0.3 の 3D 画素がない。`相談する` ボタンのボックス内（文字を除く）p90 ≤ 0.03、枠線が全周で視認できる。ラベル帯は現状（≥ 12:1）を維持 |
+| 6 | **M** | モバイル Service / Works / Company<br>`390x844-service-cards.png`, `-works-cards.png`, `-company-table.png`, `crop-m-company.png` vs `m-02 / m-04 / m-05` | モバイルの各オブジェクトは `gy` 3.0–3.3（画面上部）に駐車し、固定キャンバスなので DOM がその下を通る。モバイル用スクリムは上 30% が透明。結果: 格子がカード 01 本文の裏（max 0.60 の点が字画に乗る）、結び目が Works カード 01 の CORPORATE / h3 の裏、石板の点柱が `05 — COMPANY` / `会社概要` の真後ろ。行間の p90 はすべて 4.5:1 を満たす（8.6–15:1）が、参照 m-02/m-04/m-05 の「見出しの周りは静か」という構図が壊れ、3D が飾りではなくノイズになる | モバイルの各セクションで、見出しブロックが画面上部を通過する間はオブジェクトを退避させる: `sections.ts` に `if (!o.shift)` 分岐で `seg(tl, 0.10, 0.30, { opacity: 1 }, { opacity: 0.25 })` と `seg(tl, 0.70, 0.90, …, { opacity: 1 })`（Service / Works / Company）。または `P.*`（mobile）の `gy` を 3.0 → **4.2** にして 3D を上端 20% に限定し、`.scrim-l::before` のモバイル縦グラデを `rgba(16,33,73,.6) 18%` から始める | 390×844 の「Service カード 01 本文」「Works カード 01 の CORPORATE〜h3」「Company ラベル〜h2」の 3 フレームで、テキストの行ボックス内に L > 0.2 の 3D 画素がなく、石板／結び目のシルエットが見出しの背後にない。行間 p90 ≤ 0.042 |
+| 7 | **M** | Works（両サイズ）<br>`1440x900-works-cards.png`, `390x844-works-cards.png` vs `d-04`, `m-04` | Works 到達で `--bg-c` を `#3a2a6e` に振るため（`sections.ts` Works `bg(...)`, `scene.ts` `BG_AMBER`）、セクション全体が紫〜マゼンタに被る。背景パッチの R/G: ビルド 0.81（rgb 21,26,57）vs 参照 0.61（22,36,75）。モバイルも (33,33,74) vs (23,36,73)。参照 d-04 は他セクションと同じ藍で、Works だけ色相が変わる根拠がない。仕様 §6.1 も `#2a2a66`（紫リフトを弱める） | `BG_AMBER` を **`#2a2a66`**（仕様）にし、`bg()` の `bgWarm` 判定文字列も更新。または Works の `--bg-c` 変化を撤去し全セクション `#1a3466` のまま | 1440×900 Works カード中央フレームで、カード下の背景パッチ (100–900, 690–770) の平均 rgb が R/G ≤ 0.70、B − G ≥ 25（参照 0.61 / 29）。390 でも同様 |
+| 8 | **M** | Contact / Footer（デスクトップ）<br>`1440x900-contact-h2.png`, `-contact-cta.png`, `-01.png`, `crop-contact-disc.png` vs `d-06`, `d-07` | (a) 支給 CSS の `.contact-orbits`（3 楕円 + 光点）を残したまま 3D の輪 + 周回光を重ねたため、CTA の周りに **2 系統・5 本の軌道**が出る。仕様 §5 は「点で実装し CSS は削除」を推奨。(b) 周回光 `orbitMesh` は色 `#e8f6ff` / glow `#8ad8ff` 0.12 のままで、bloom 閾値 0.82 に届かず、**平坦な灰色の円盤**（L 0.38–0.49、rgb (149,162,189)、境界に減衰なし）として CTA 左下 (361,611) とフッター (990,725) に居座る。「光が輪を周回する」意図が「灰色の点が動く」になっている。(c) 輪の bloom ホットスポット (1030–1070, 670–710) p90 0.31 が CTA ブロックの右下で最も明るい要素になる | (a) `index.html` の `<div class="contact-orbits">` を削除し、`cosmic.css` の `.contact-orbits` 規則も外す（仕様 §5 の E1/E2 を T6 に追加するのは任意）。(b) `orbitMat` 色 **`#ffffff`**、`orbitGlowMat` **`#9adfff`** / opacity 0.12 → **0.28**、glow 半径 0.16 → **0.22**（§3.4 と同じペア）。(c) Contact `accentMix` 到達値 0.4 → **0.3**、`pointSize` 2.0 → **1.8** | Contact h2 中央 / CTA 中央の 2 フレームで軌道系が 1 つだけ。周回光の中心 L ≥ 0.8 で、中心から 12px 以上の軟らかい減衰がある（平坦な円盤でない）。CTA 中央フレームで輪上の最大 p90 ≤ 0.25。リード行間 ≥ 8:1、注記下 ≥ 6:1 を維持 |
+| 9 | m | 全画面の明度<br>§2 末尾の数値 | 参照より 15–40% 暗い（Company −39%）。写真の減光 0.78 + 背景ビネット ×0.6 + グレードのビネット 0.14 + スクリムの四重。仕様 §6.1 の 0.72 はさらに暗くする方向なので、**参照の実測を正**にして較正する | `background.ts` のビネットを `mix(0.72, 1.0, v)`（仕様）に、`post.ts` `uVignette` 0.14 → **0.10**、`uPhotoDim` は参照に合わせて **0.82**（仕様の 0.72 は不採用。仕様 §6.1 の色味 `×(0.90,0.95,1.05)` と輝度上限 0.62 は採用） | About / Service / Process / Works / Company / Footer の各フレームの平均 L が参照の ±15% 以内（0.025–0.037） |
+| 10 | m | 仕様 §6 の確定値との差 | `uPhotoDim 0.78`（仕様 0.72）、写真の色味・輝度上限・fbm 0.85・`uStars 0.7` 未適用、`uGrain 0.03`（0.02）、`uVignette 0.14`（0.10）、`glowMat` 0.06/0.12（0.045/0.09）、`uFog 0.055`（0.05）、`orbitMesh` 色、`slabBase/Rim` 旧値、`uGalArm #f6fbff`（#f4f7ff）。観測できる影響は #2（縁の飽和）、#8（灰色円盤）、#9（暗さ）に集約されている | #2 / #8 / #9 の対応時に併せて更新し、仕様と実装のどちらを正とするか `cosmic-bright-3d.md` に追記する | `grep` で各値が仕様または追記した改訂値と一致 |
+| 11 | m | Works サムネ SVG<br>`index.html` L291, L305 | `#F0C674` の金ノードが残る。参照 d-04 にも同じ点があるので支給デザインには忠実だが、brief v1.3「真鍮・金・コーラルは全廃」と矛盾する | brief を正にするなら `#F0C674` → `var(--cyan)`（`#9adfff`）に。参照を正にするなら brief §3.1 v1.3 に「SVG 線画のノードは例外」と追記 | どちらかに揃っている |
+| 12 | m | `cosmic.css` L9 / `three.css` L11 | `.section--hero:before` が移植 CSS（支給値 `#12275640`）と `three.css`（`.55/.25`）で二重定義。後者が勝ち、前者は死んだ規則。`html{scroll-padding-top}` の削除はコミットの意図（二重アンカー補正の除去）どおり | `cosmic.css` 側の `.section--hero:before` を削除して 1 か所にする | 定義が 1 つ |
+
+### 4. PASS までの最小リスト
+
+1. **[C-1] Process の設計図をリード列の外へ**（`P.process` {4.6, 3.4, 0.6} または opacity 0.2、リード `max-width: 420px`）。検証: リード行ボックスに L > 0.12 なし、行間 p90 ≤ 0.042。
+2. **[M-2] Hero の環と惑星を仕様 §1.1 / §2.1–2.3 に**（帯半径・`i % 50`・リングレット・halo ≤ 4.2、配置 {2.6, 0.35, 2.8}、縁の飽和を止める）。検証: 環が連続した楕円として読め、手前の弧が惑星を横切る。x < 700 に塵なし。縁 p90 ≤ 0.85。
+3. **[M-3] About の原子を見えるものに**（§3.1–3.4: `aRole`・ノード・`nodeMesh`、配置 {-2.8, -1.35, 0.8}、pointSize 2.0）。検証: 3 楕円が判別でき、ノード L ≥ 0.8、原子領域 p90 ≥ 0.06。
+4. **[M-4] スクリムの縦マスク**（上下 160px のフェード、Works にも `scrim-l`）。検証: 7 境界すべてで上下 8px 帯の L 差 ≤ 15%。
+5. **[M-5] モバイル Hero の配置を仕様 §1.4 {0.3, 2.0, 1.5} に + 初期ヘッダー帯**。検証: ヘッダー領域に L > 0.3 の 3D なし、`相談する` の枠が全周で見える。
+6. **[M-6] モバイルの Service / Works / Company で見出し通過中はオブジェクトを 0.25 に退避**（または `gy` 4.2 + スクリム開始 18%）。検証: 3 フレームで行ボックス内に L > 0.2 の 3D 画素なし。
+7. **[M-7] Works の `--bg-c` を `#2a2a66`**（または撤去）。検証: 背景パッチの R/G ≤ 0.70。
+8. **[M-8] Contact の軌道系を 1 つに（`.contact-orbits` 削除）、周回光を白 + シアン発光に**。検証: 灰色の円盤がなく、光点 L ≥ 0.8 + 減衰。輪の p90 ≤ 0.25。
+
+Minor（#9〜#12）は余力で。#9（明度）と #10（仕様値）は #2 / #8 と同じファイルを触るので同じ PR に入れることを勧める。
+
+### 5. 残すもの（このプロダクトとして既に成立している箇所）
+
+1. **2D 移植の正確さ** — 整形 diff の差分は意図した削除と 3D 用の層指定のみ。ヘッダー、楕円付きワードマーク、◇ 節点ラベル、2 行目グラデの見出し、丸囲み番号のカード、ジグザグ・タイムライン、クリップ角のサムネ、装飾なしのテーブル、中央揃えの Contact、巨大 `SD` のフッターは参照と同じ位置・同じ値で出ている。モバイルの積み方も m-01〜m-06 と一致。
+2. **Service の格子**（`1440x900-service-cards.png`）— CTA の下の空きに置かれ、テキストと交差せず、「構造」を左下で静かに示す。3D 追加分で参照を上回っている唯一の配置。
+3. **Company の石板（デスクトップ）と Contact の可読性** — 石板は th 列の手前で止まり（6.9:1）、Contact のリード／注記は輪の上でも 7.7–9.7:1。第3回の Critical は再発していない。
+4. **ヒーローのテキスト帯** — ラベル上 9.0:1、リード行間 15.5:1、見出し右の環 p90 0.029。モバイルでも参照 m-00 が抱えていたラベル帯 2.1:1 を 12.7:1 に改善している。
+5. **写真背景を WebGL のベースにした判断** — 支給の星野を使いつつ、点群の 7 段の物語（環 → 原子 → 格子 → 設計図 → 結び目 → 礎 → 輪）を保っている。問題は各段の「見え方」であって構造ではない。
+
+### 6. PASS 条件
+
+- 1440×900 の Process 見出し中央フレームで、リードの行ボックスに L > 0.12 の 3D 画素がなく、行間 x 1050–1250 の p90 ≤ 0.042（≥ 6:1）。他セクションのテキスト帯は現状の値（About 14.9 / Service 10.7 / Works 8.5 / Company 6.9 / Contact 7.7–9.7 / Footer 14:1）を下回らない。
+- Hero: 惑星中心 (1058±30, 405±30)、半径 273±20px、環が連続した楕円として読め手前の弧が惑星を横切る、x < 700 に塵なし、縁 p90 ≤ 0.85。`d-00` との並置スクリーンショットを添付。
+- About local 0.4 で 3 楕円 + ノード（L ≥ 0.8）が `.about__space` 内に見え、原子領域 p90 ≥ 0.06。`d-01` との並置を添付。
+- 7 つのセクション境界すべてで上下 8px 帯の平均 L 差 ≤ 15%（両サイズ）。
+- 390×844 Hero: 惑星上端 ≥ 90px、ヘッダー領域に L > 0.3 の 3D なし、`相談する` の枠が全周で視認。
+- 390×844 の Service カード 01 / Works カード 01 / Company 見出しの 3 フレームで、行ボックス内に L > 0.2 の 3D 画素なし。
+- Works の背景パッチ R/G ≤ 0.70（両サイズ）。
+- Contact に軌道系が 1 つ、周回光は L ≥ 0.8 + 減衰、輪の p90 ≤ 0.25。
+- 上記を満たした状態で §5 の 5 点（2D 移植、Service の格子、Company / Contact の可読性、Hero のテキスト帯、写真ベースと 7 段の物語）が変更されていないこと。
+
+---
+
+## 対応記録（第4回, Frontend Developer, 2026-09-24）
+
+| 指摘 | 対応 |
+|---|---|
+| C-1 Process の本文に設計図が重なる | `P.process` を (4.6, 3.4, 0.6) に移動。本文の背後から外れた |
+| M-1 環が「塵」に見える／惑星の縁が飽和 | 初期 `pointSize` 4.0、環の色ランプ ×1.25、遠景星の割合 8%→5%。縁の強さ 1.6→1.4、ハロー 0.55→0.48（中間値） |
+| M-2 About の原子が見えない | 点サイズ 1.9、T1 支配時の alpha ブースト +70% |
+| M-3 セクション境界のスクリムの段差 | `.section::before` に上下 160px のマスクグラデーションを適用（Hero は除外） |
+| M-4 モバイルの惑星がヘッダー・見出しに重なる | `P.hero`（mobile）を (0.5, 2.5, 1.1)、モバイルの `.hero` 上パディングを 290px にして惑星の帯を確保 |
+| M-5 モバイルで本文セクション背後に 3D | 各セクションの `gy` を 3.6 前後（ビューポート上端の余白側）へ、Hero/Contact 以外は不透明度 ×0.3 |
+| M-6 Works の紫かぶり | `--bg-c` を `#2a2a66` に |
+| M-7 Contact の軌道の二重化・周回光が灰色の円 | CSS の `.contact-orbits` を削除（3D の輪に一本化）。周回光を白 + シアンのグロー（0.28）に |
+| Minor 全体が参照より暗い | `uPhotoDim` 0.78→0.92、背景ビネット 0.6→0.72、グレイン 0.02、ビネット 0.10 |
+| Minor Works サムネの金色ノード | `#ae9bff` に統一 |
+| Minor `.section--hero:before` の重複 | three.css 側を削除し、支給 CSS の定義に一本化 |
